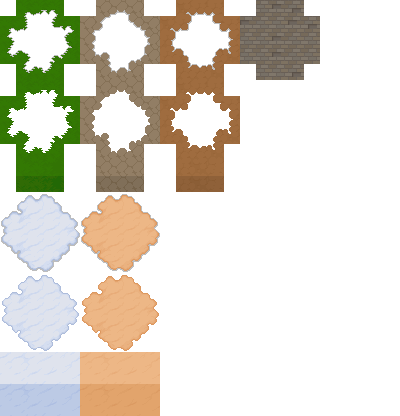
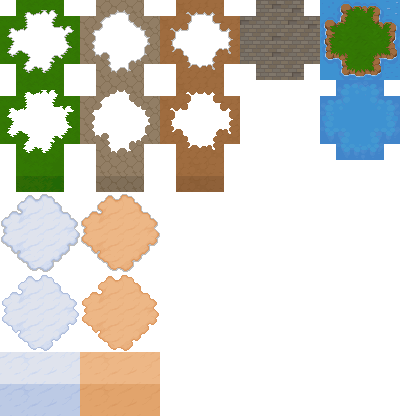
improved world tiles

Changed region(s): [[0.78, 0.0, 1.0, 0.4062]]

diff --git a/frontend/src/engine/GroundGraphics/GroundTiles.ts b/frontend/src/engine/GroundGraphics/GroundTiles.ts
@@ -12,6 +12,14 @@ export interface GroundOptions {
   island?: boolean
 }
 
+type TerrainType = 'grass' | 'sand' | 'stone' | 'water';
+
+
+interface AutoTileSet {
+  tiles: Record<string, Texture>
+}
+
+
 export class GroundTiles {
   public container = new Container()
 
@@ -19,13 +27,11 @@ export class GroundTiles {
   private tileSize: number
   private options: GroundOptions
   private seed: number
+  private grass!: AutoTileSet
+  private sand!: AutoTileSet
+  private stone!: AutoTileSet
+  private water!: AutoTileSet
 
-  private grassTiles: Texture[] = []
-  private sandTiles: Texture[] = []
-  private dirtTiles: Texture[] = []
-  private rockTiles: Texture[] = []
-  // private waterTiles: Texture[] = []
-  private mountainTile!: Texture
 
   constructor(options: GroundOptions) {
     this.options = options
@@ -50,39 +56,64 @@ export class GroundTiles {
           this.tileSize,
           this.tileSize
         )
-      })
+      });
+    
+    // All of these are (col, row) *****
+    this.grass = {
+      tiles:{
+        'main' : getTile(2, 10),
+        'top' : getTile(2, 9),
+        'bottom' : getTile(2, 5),
+        'left' : getTile(4, 7),
+        'right' : getTile(0, 7),
+        'topleft' : getTile(4, 8),
+        'topright' : getTile(0, 8),
+        'bottomleft' : getTile(4, 6),
+        'bottomright' : getTile(0, 6),
+      }
+    }
 
-    // 🔧 Adjust these (col,row) pairs to match YOUR sheet
+    this.sand = {
+      tiles:{
+        'main' : getTile(7, 18),
+        'top' : getTile(7, 17),
+        'bottom' : getTile(7, 21),
+        'left' : getTile(5, 19),
+        'right' : getTile(9, 19),
+        'topleft' : getTile(5, 18),
+        'topright' : getTile(9, 18),
+        'bottomleft' : getTile(5, 20),
+        'bottomright' : getTile(9, 20),
+      }
+    }
 
-    this.grassTiles = [
-      getTile(2, 10),
-      getTile(3, 10),
-      getTile(2, 11),
-      getTile(3, 11),
-    ]
+    this.stone = {
+      tiles:{
+        'main' : getTile(7, 10),
+        'top' : getTile(7, 9),
+        'bottom' : getTile(7, 5),
+        'left' : getTile(9, 2),
+        'right' : getTile(5, 2),
+        'topleft' : getTile(8, 4),
+        'topright' : getTile(6, 3),
+        'bottomleft' : getTile(8, 1),
+        'bottomright' : getTile(6, 1),
+      }
+    }
 
-    this.sandTiles = [
-      getTile(6, 14),
-      getTile(7, 14),
-      getTile(8, 14),
-      getTile(7, 15),
-    ]
-
-    this.dirtTiles = [
-      getTile(11, 10),
-      getTile(12, 10),
-      getTile(13, 10),
-      getTile(12, 11),
-    ]
-
-    this.rockTiles = [
-      getTile(6, 10),
-      getTile(7, 10),
-      getTile(8, 10),
-      getTile(7, 11),
-    ]
-
-    this.mountainTile = getTile(10, 0)
+    this.water = {
+      tiles:{
+        'main' : getTile(22, 7),
+        'top' : getTile(22, 5),
+        'bottom' : getTile(22, 9),
+        'left' : getTile(20, 7),
+        'right' : getTile(24, 7),
+        'topleft' : getTile(21, 5),
+        'topright' : getTile(23, 5),
+        'bottomleft' : getTile(21, 9),
+        'bottomright' : getTile(23, 9),
+      }
+    }
 
     const cols = Math.floor(baseTexture.width / this.tileSize)
     const rows = Math.floor(baseTexture.height / this.tileSize)
@@ -90,11 +121,7 @@ export class GroundTiles {
     console.log("Detected grid:", cols, "cols x", rows, "rows")
   }
 
-  // =========================================================
-  // WORLD GENERATION
-  // =========================================================
-
-  public getTileForPosition(x: number, y: number): Texture {
+  private getTerrainType(x: number, y: number): TerrainType {
     let height = this.getHeight(x, y)
 
     if (this.options.island) {
@@ -103,27 +130,49 @@ export class GroundTiles {
 
     const moisture = this.getMoisture(x, y)
 
-/*     if (height < 0.4) {
-      return this.pickStable(this.waterTiles, x, y)
-    }
- */
-    if (height < 0.45) {
-      return this.pickStable(this.grassTiles, x, y)
+    if (height < 0.25) return 'water'
+    if (height < 0.45) return 'sand'
+    if (height > 0.75) return 'stone'
+
+    return 'grass'
+  }
+
+  public getTileForPosition(x: number, y: number): Texture {
+    const size = this.tileSize
+
+    const type = this.getTerrainType(x, y)
+
+    const top    = this.getTerrainType(x, y - size)
+    const bottom = this.getTerrainType(x, y + size)
+    const left   = this.getTerrainType(x - size, y)
+    const right  = this.getTerrainType(x + size, y)
+
+    const set = this.getTileSet(type).tiles
+
+    const sameTop = top === type
+    const sameBottom = bottom === type
+    const sameLeft = left === type
+    const sameRight = right === type
+
+    // --- Full surround ---
+    if (sameTop && sameBottom && sameLeft && sameRight) {
+      return set.main
     }
 
-    if (height > 0.85) {
-      return this.mountainTile
-    }
+    // --- Single edges ---
+    if (!sameTop && sameLeft && sameRight) return set.top
+    if (!sameBottom && sameLeft && sameRight) return set.bottom
+    if (!sameLeft && sameTop && sameBottom) return set.left
+    if (!sameRight && sameTop && sameBottom) return set.right
 
-    if (height > 0.7) {
-      return this.pickStable(this.rockTiles, x, y)
-    }
+    // --- Corners ---
+    if (!sameTop && !sameLeft) return set.topleft
+    if (!sameTop && !sameRight) return set.topright
+    if (!sameBottom && !sameLeft) return set.bottomleft
+    if (!sameBottom && !sameRight) return set.bottomright
 
-    if (moisture < 0.3) {
-      return this.pickStable(this.dirtTiles, x, y)
-    }
-
-    return this.pickStable(this.sandTiles, x, y)
+    // --- Fallback ---
+    return set.main
   }
 
   // =========================================================
@@ -174,15 +223,15 @@ export class GroundTiles {
   // STABLE RANDOM PICK
   // =========================================================
 
-  private hash(x: number, y: number): number {
-    const s = Math.sin(x * 12.9898 + y * 78.233 + this.seed) * 43758.5453
-    return s - Math.floor(s)
+  private getTileSet(type: TerrainType): AutoTileSet {
+    switch (type) {
+      case 'grass': return this.grass
+      case 'sand': return this.sand
+      case 'stone': return this.stone
+      case 'water': return this.water
+    }
   }
 
-  private pickStable(array: Texture[], x: number, y: number): Texture {
-    const r = this.hash(x, y)
-    return array[Math.floor(r * array.length)]
-  }
 
   destroy() {
     this.container.destroy({ children: true })

diff --git a/frontend/index.html b/frontend/index.html
@@ -2,9 +2,9 @@
 <html lang="en">
   <head>
     <meta charset="UTF-8" />
-    <link rel="icon" type="image/svg+xml" href="/vite.svg" />
+    <link rel="icon" type="image/svg+xml" href="/mascot.png" />
     <meta name="viewport" content="width=device-width, initial-scale=1.0" />
-    <title>vite-project</title>
+    <title>cool ass game</title>
   </head>
   <body>
     <div id="root"></div>
